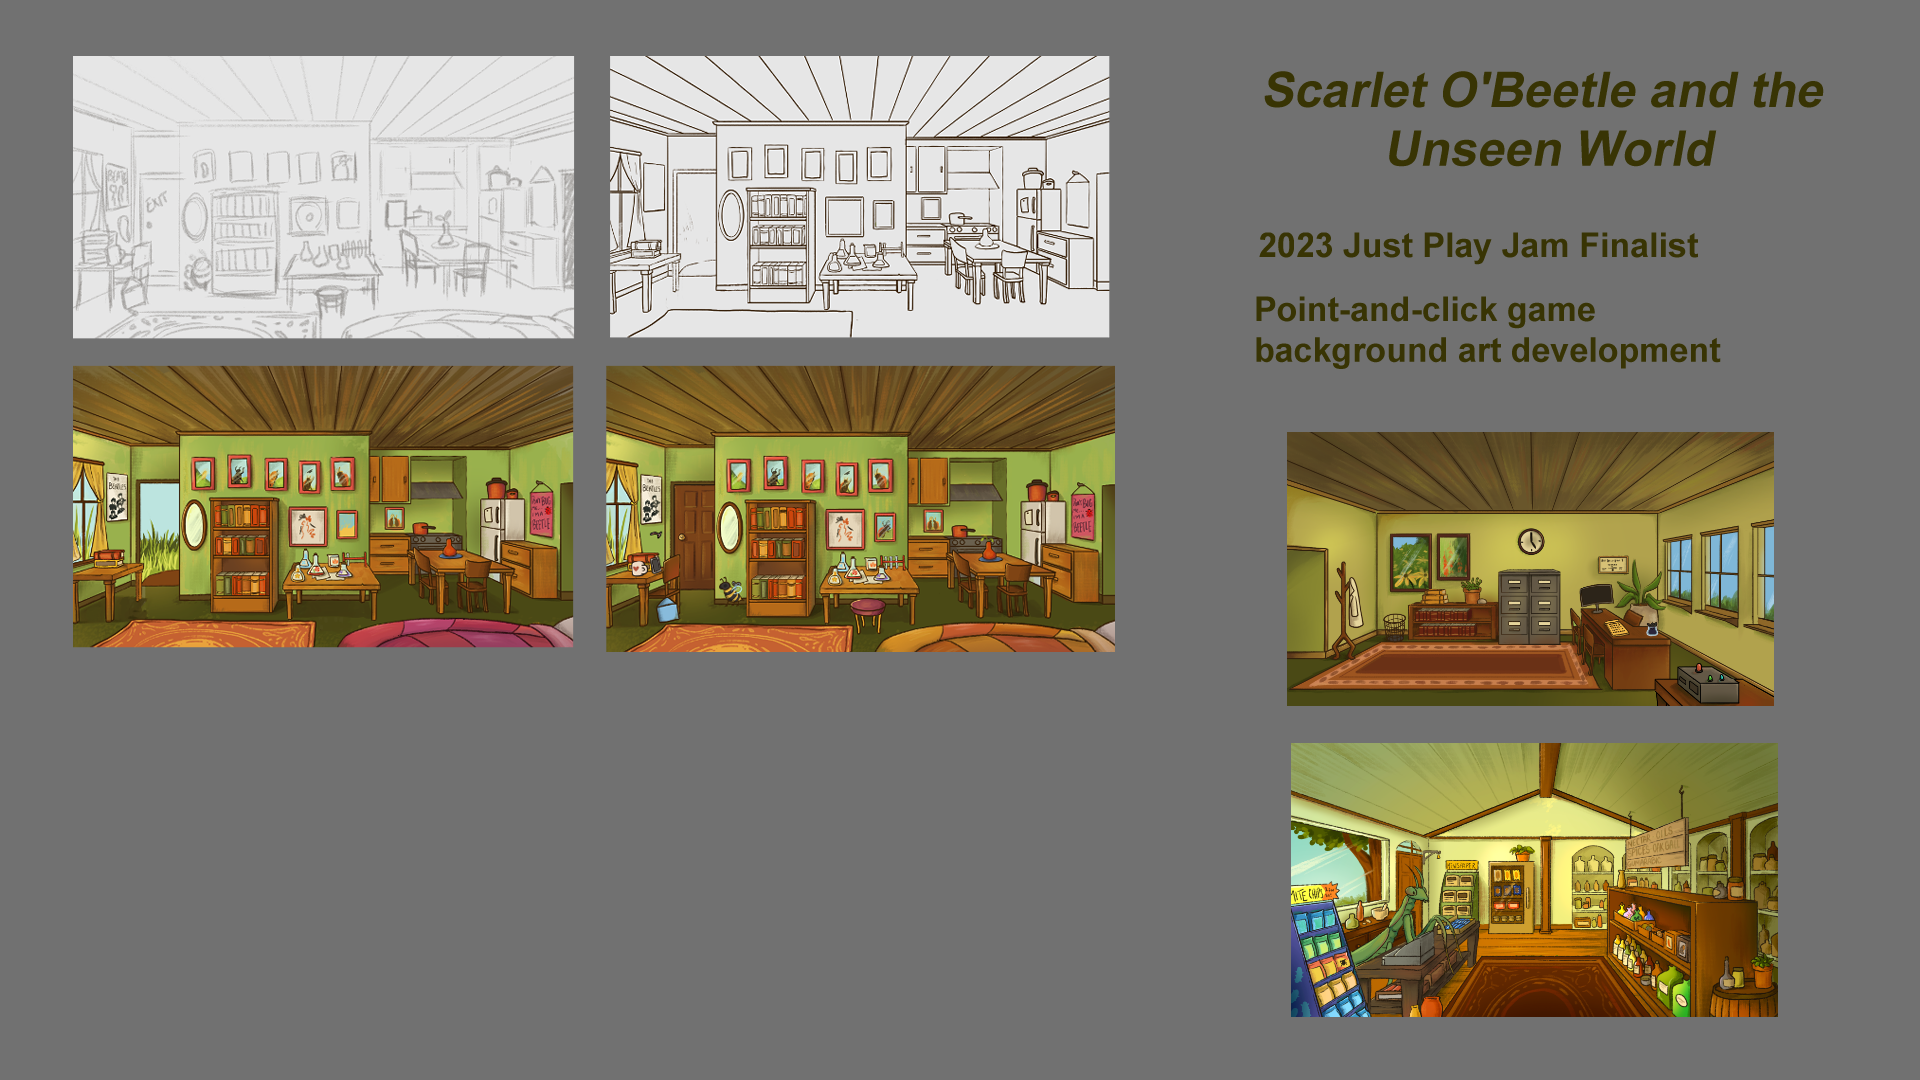
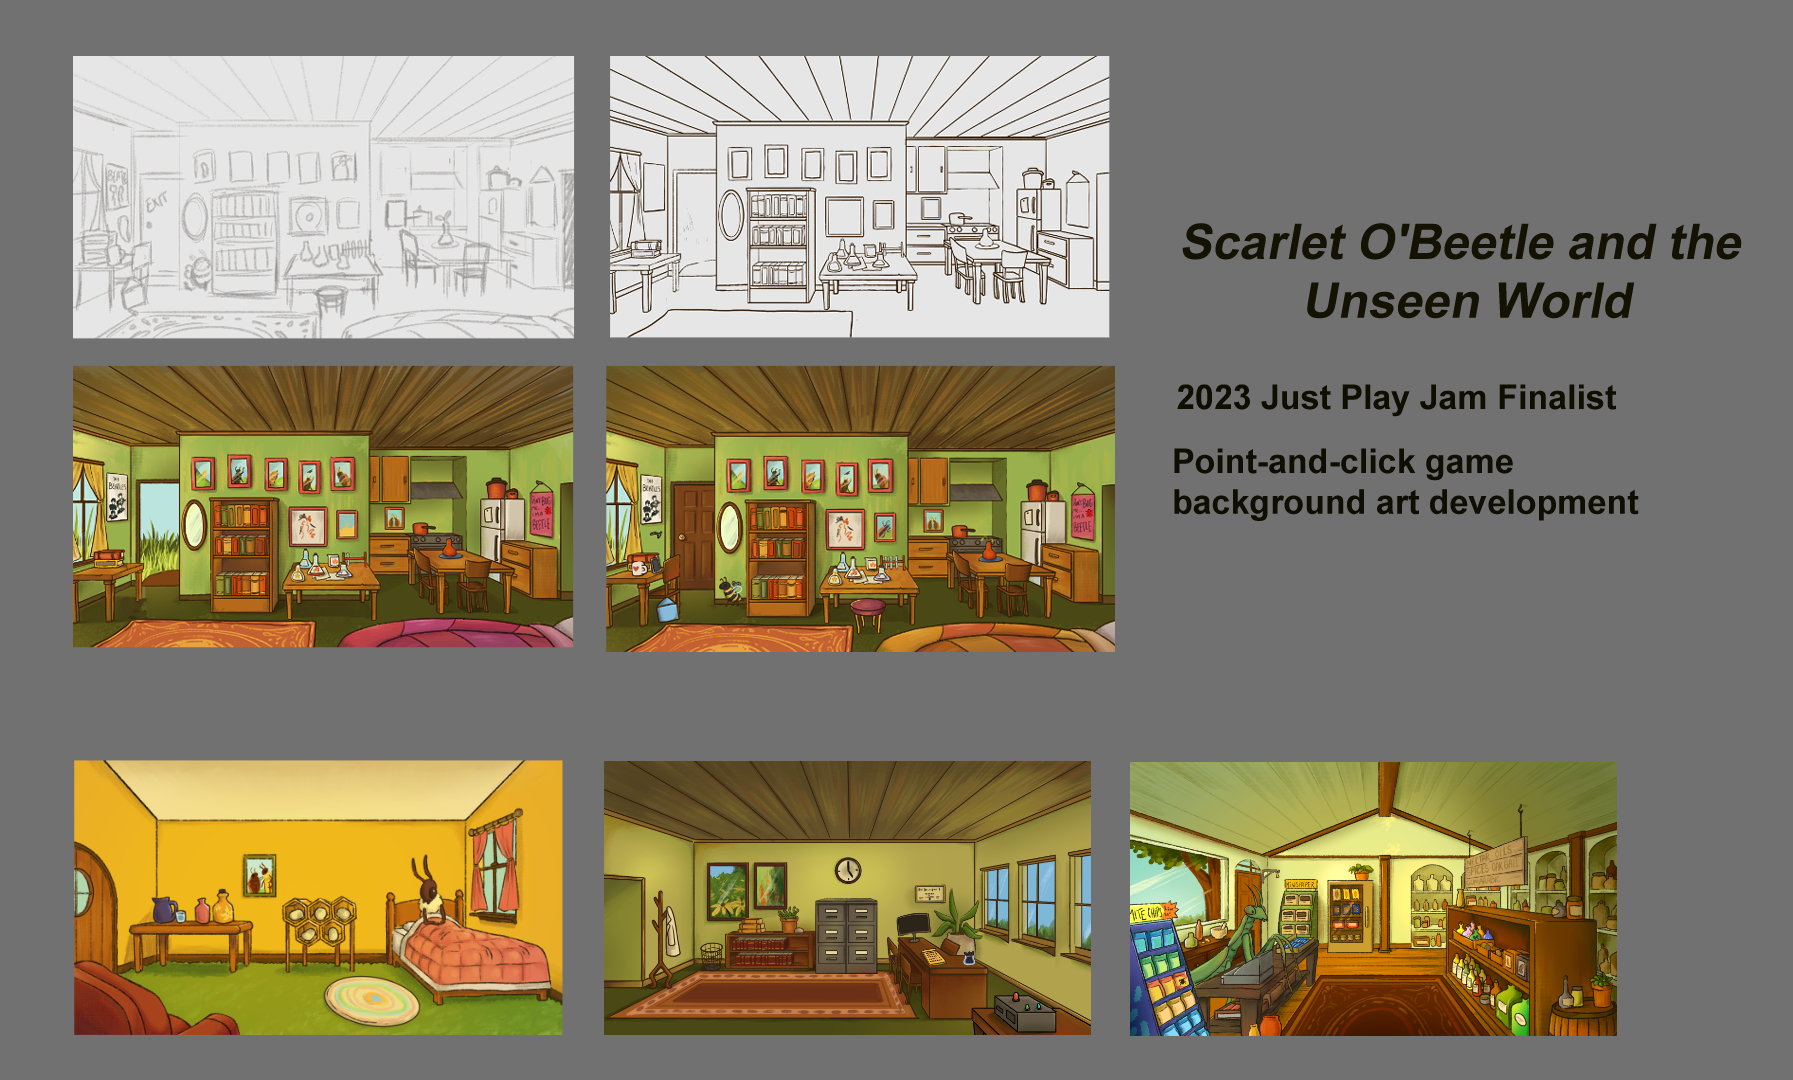
click to enlarge implemented

diff --git a/art.html b/art.html
@@ -14,7 +14,7 @@
         <a class="link-container" href="about.html">About</a>
       </div>
     </div>
-    <div class="container">
+    <div class="art-container">
       <div class="project">
         <div class="project-header">
           <h2 class="project-title">2D Art</h2>
@@ -46,12 +46,15 @@
           <img class="project-image device" src="assets/title_screen.png" />
           <img
             class="project-image device long-item"
-            src="assets/s_background_progress (1).gif"
+            src="assets/s_background_progress.png"
           />
         </div>
         <h3>Character Portraits</h3>
         <div class="art-images">
-          <img class="project-image device" src="assets/tt_portraits.png" />
+          <img
+            class="project-image device long-item-2"
+            src="assets/tt_portraits.png"
+          />
           <img
             class="project-image device"
             src="assets/scarlet_portrait_final.png"
@@ -71,7 +74,10 @@
         </div>
         <h3>UI Assets</h3>
         <div class="art-images">
-          <img class="project-image device" src="assets/all buttons.png" />
+          <img
+            class="project-image device med-item"
+            src="assets/all buttons.png"
+          />
           <img
             class="project-image device"
             src="assets/castle burnt textbox.png"
@@ -94,10 +100,42 @@
           off crisis looms overhead. I was responsible for the interior
           backgrounds, character portraits, and Scarlet's sprites.
         </p> -->
-        <h3>Character Portraits</h3>
+        <h3>Characters</h3>
         <div class="art-images"></div>
       </div>
+      <!-- The Modal -->
+      <div id="myModal" class="modal">
+        <span class="close">×</span>
+        <img class="modal-content" id="img01" />
+        <div id="caption"></div>
+      </div>
     </div>
-    <script src="script.js"></script>
+    <script>
+      // Get the modal
+      var modal = document.getElementById("myModal");
+
+      // Get the <span> element that closes the modal
+      var span = document.getElementsByClassName("close")[0];
+
+      // When the user clicks on <span> (x), close the modal
+      span.onclick = function () {
+        modal.style.display = "none";
+      };
+
+      // Get all images and insert the clicked image inside the modal
+      // Get the content of the image description and insert it inside the modal image caption
+      var images = document.getElementsByTagName("img");
+      var modalImg = document.getElementById("img01");
+      var captionText = document.getElementById("caption");
+      var i;
+      for (i = 0; i < images.length; i++) {
+        images[i].onclick = function () {
+          modal.style.display = "block";
+          modalImg.src = this.src;
+          modalImg.alt = this.alt;
+          captionText.innerHTML = this.nextElementSibling.innerHTML;
+        };
+      }
+    </script>
   </body>
 </html>

diff --git a/styles.css b/styles.css
@@ -116,11 +116,23 @@ a:hover {
 .long-item {
     grid-area: 3 / 1 / span 1 / span 3;
 }
+.long-item-2 {
+    grid-area: 1 / 1 / span 1 / span 3;
+}
+.med-item {
+    grid-area: 1 / 1 / span 1 / span 2;
+}
+
+.art-container {
+    max-width: 1600px;
+    margin: 0 auto;
+    padding: 20px 20vw;
+}
 
 .art-images {
     width: 100%;
     display: grid;
-    grid-template-rows: 600px 400px 400px;
+    grid-template-rows: 400px 400px 400px;
     grid-template-columns: auto auto auto;
     column-gap: 10px;
     row-gap: 10px;
@@ -138,6 +150,10 @@ a:hover {
     border-radius: 8px;
 }
 
+.project-image:hover {
+    border: 2px solid #777;
+}
+
 .project-image.device {
     flex: 0 0 auto;
     max-width: 100%;
@@ -145,4 +161,43 @@ a:hover {
     flex: 1 1 100%;
     height: 100%;
         object-fit: cover;
+}
+
+.close {
+    position: absolute;
+    top: 5px;
+    right: 30px;
+    max-height: 35px;
+    color: #f1f1f1;
+    font-size: 40px;
+    font-weight: bold;
+    transition: 0.3s;
+}
+
+.modal {
+    display: none;
+    position: fixed;
+    z-index: 1;
+    padding-top: 50px;
+    left: 0;
+    top: 0;
+    width: 100%;
+    height: 100%;
+    overflow: auto;
+    background-color: rgba(0, 0, 0, 0.9);
+    display: flex;
+    align-items: center;
+    justify-content: center;
+}
+
+/* Modal Content (image) */
+.modal-content {
+    margin: auto;
+    display: block;
+    margin-bottom: 100px;
+    /* padding-bottom: 20px; */
+    width: 80%;
+    max-width: 700px;
+    max-height: 95%;
+    object-fit: contain;
 }
